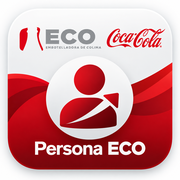
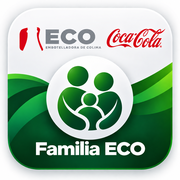
Add files via upload

diff --git a/index.html b/index.html
@@ -1,27 +1,51 @@
 <!doctype html>
 <html lang="es">
 <head>
-  <meta charset="utf-8">
-  <meta name="viewport" content="width=device-width,initial-scale=1,viewport-fit=cover">
-  <meta name="theme-color" content="#d50012">
-  <meta name="apple-mobile-web-app-capable" content="yes">
-  <meta name="apple-mobile-web-app-status-bar-style" content="default">
-  <meta name="apple-mobile-web-app-title" content="Persona ECO">
-  <title>Persona ECO</title>
-  <link rel="manifest" href="manifest.json">
-  <link rel="apple-touch-icon" href="assets/apple-touch-icon.png">
-  <meta http-equiv="refresh" content="0;url=https://script.google.com/macros/s/AKfycbyNdB0GiEY80Km9ZWxsvamW0YPOPSxCtvLwdozxf6LT3zDCWVm3SbJPCzwfhykXIlO9/exec">
-  <style>html,body{margin:0;height:100%;font-family:-apple-system,BlinkMacSystemFont,"Segoe UI",Arial,sans-serif;background:#fff}body{display:grid;place-items:center}.wrap{text-align:center;padding:24px}.wrap img{width:128px;border-radius:28px}.wrap p{color:#555}.wrap a{color:#b80010}</style>
+<meta charset="utf-8">
+<meta name="viewport" content="width=device-width,initial-scale=1,viewport-fit=cover">
+<meta name="theme-color" content="#2e7d32">
+<meta name="apple-mobile-web-app-capable" content="yes">
+<meta name="apple-mobile-web-app-status-bar-style" content="default">
+<meta name="apple-mobile-web-app-title" content="Familia ECO">
+<title>Familia ECO</title>
+<link rel="manifest" href="./manifest.json?v=4">
+<link rel="apple-touch-icon" href="./assets/apple-touch-icon.png?v=4">
+<link rel="icon" type="image/png" sizes="192x192" href="./assets/icon-192.png?v=4">
+<link rel="icon" type="image/png" sizes="32x32" href="./assets/favicon-32.png?v=4">
+<style>
+html,body{margin:0;width:100%;height:100%;background:#f4f4f4;font-family:-apple-system,BlinkMacSystemFont,"Segoe UI",Arial,sans-serif}
+#install{height:100%;display:grid;place-items:center;color:#203026}
+.card{width:min(86vw,420px);text-align:center}
+.logo{width:170px;height:170px;border-radius:38px;display:block;margin:0 auto 22px;box-shadow:0 10px 30px rgba(0,0,0,.14)}
+h1{margin:0 0 8px;font-size:31px} p{margin:0;color:#667069;font-size:16px;line-height:1.4}
+#appframe{display:none;border:0;width:100%;height:100%;background:#fff}
+</style>
 </head>
 <body>
-  <div class="wrap">
-    <img src="assets/icon-192.png" alt="Persona ECO">
-    <p>Abriendo Persona ECO…</p>
-    <a href="https://script.google.com/macros/s/AKfycbyNdB0GiEY80Km9ZWxsvamW0YPOPSxCtvLwdozxf6LT3zDCWVm3SbJPCzwfhykXIlO9/exec">Continuar</a>
-  </div>
-  <script>
-    if ('serviceWorker' in navigator) navigator.serviceWorker.register('./sw.js').catch(()=>{});
-    window.location.replace('https://script.google.com/macros/s/AKfycbyNdB0GiEY80Km9ZWxsvamW0YPOPSxCtvLwdozxf6LT3zDCWVm3SbJPCzwfhykXIlO9/exec');
-  </script>
+<section id="install">
+ <div class="card">
+   <img class="logo" src="./assets/icon-192.png?v=4" alt="Familia ECO">
+   <h1>Familia ECO</h1>
+   <p style="margin-bottom:18px">Instala Familia ECO para tener acceso rápido. Solo necesitas hacerlo una vez.</p>
+   <div style="text-align:left;background:#fff;border:1px solid #ddd;border-radius:16px;padding:17px 18px;line-height:1.45;color:#334139;font-size:15px">
+     <div><strong>iPhone / iPad:</strong> Compartir → Añadir a pantalla de inicio.</div>
+     <div style="margin-top:9px"><strong>Android:</strong> Menú del navegador → Añadir a pantalla de inicio / Instalar aplicación.</div>
+   </div>
+ </div>
+</section>
+<iframe id="appframe" title="Familia ECO" allow="clipboard-read; clipboard-write"></iframe>
+<script>
+if ('serviceWorker' in navigator) navigator.serviceWorker.register('./sw.js?v=4').catch(()=>{});
+
+const standalone = window.matchMedia('(display-mode: standalone)').matches ||
+                   window.navigator.standalone === true;
+
+if (standalone) {
+  document.getElementById('install').style.display='none';
+  const f=document.getElementById('appframe');
+  f.style.display='block';
+  f.src='https://script.google.com/macros/s/AKfycbz15pUaMnYUXDkQWlUdRAYq5_qhU2fiRK4Qxy60Ta62049109RvFbJxqXMe-O6NuWsTUg/exec';
+}
+</script>
 </body>
 </html>

diff --git a/sw.js b/sw.js
@@ -1,4 +1,5 @@
-const CACHE='persona-eco-direct-v1';
-const ASSETS=['./','./index.html','./manifest.json','./assets/icon-192.png','./assets/icon-512.png','./assets/apple-touch-icon.png'];
-self.addEventListener('install',e=>e.waitUntil(caches.open(CACHE).then(c=>c.addAll(ASSETS))));
-self.addEventListener('activate',e=>e.waitUntil(caches.keys().then(keys=>Promise.all(keys.filter(k=>k!==CACHE).map(k=>caches.delete(k)))).then(()=>self.clients.claim())));
+const CACHE='familia-eco-v4';
+const ASSETS=['./','./index.html','./manifest.json','./assets/favicon-32.png','./assets/icon-192.png','./assets/icon-512.png','./assets/apple-touch-icon.png'];
+self.addEventListener('install',e=>{self.skipWaiting();e.waitUntil(caches.open(CACHE).then(c=>c.addAll(ASSETS)))});
+self.addEventListener('activate',e=>{e.waitUntil(caches.keys().then(keys=>Promise.all(keys.filter(k=>k!==CACHE).map(k=>caches.delete(k)))));self.clients.claim()});
+self.addEventListener('fetch',e=>{if(e.request.method!=='GET')return;if(new URL(e.request.url).origin!==self.location.origin)return;e.respondWith(fetch(e.request).catch(()=>caches.match(e.request)))});
